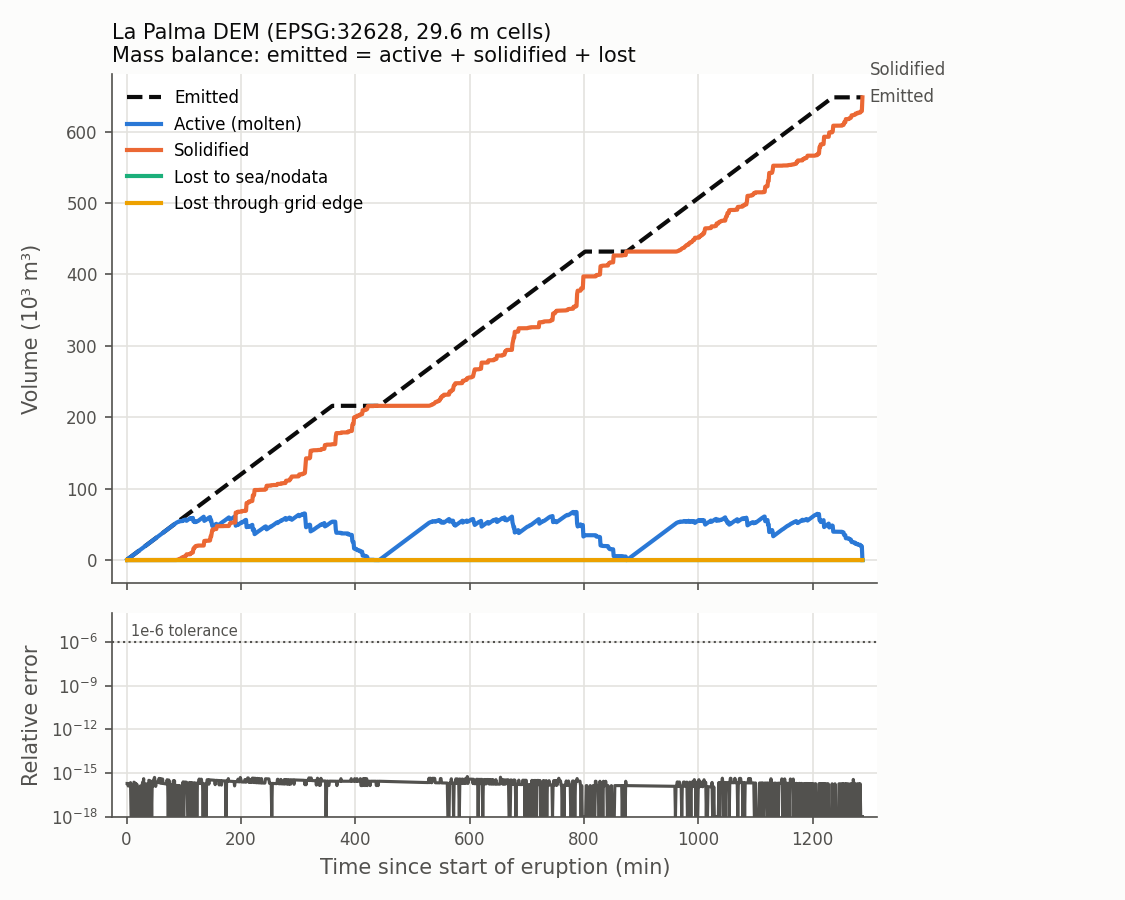
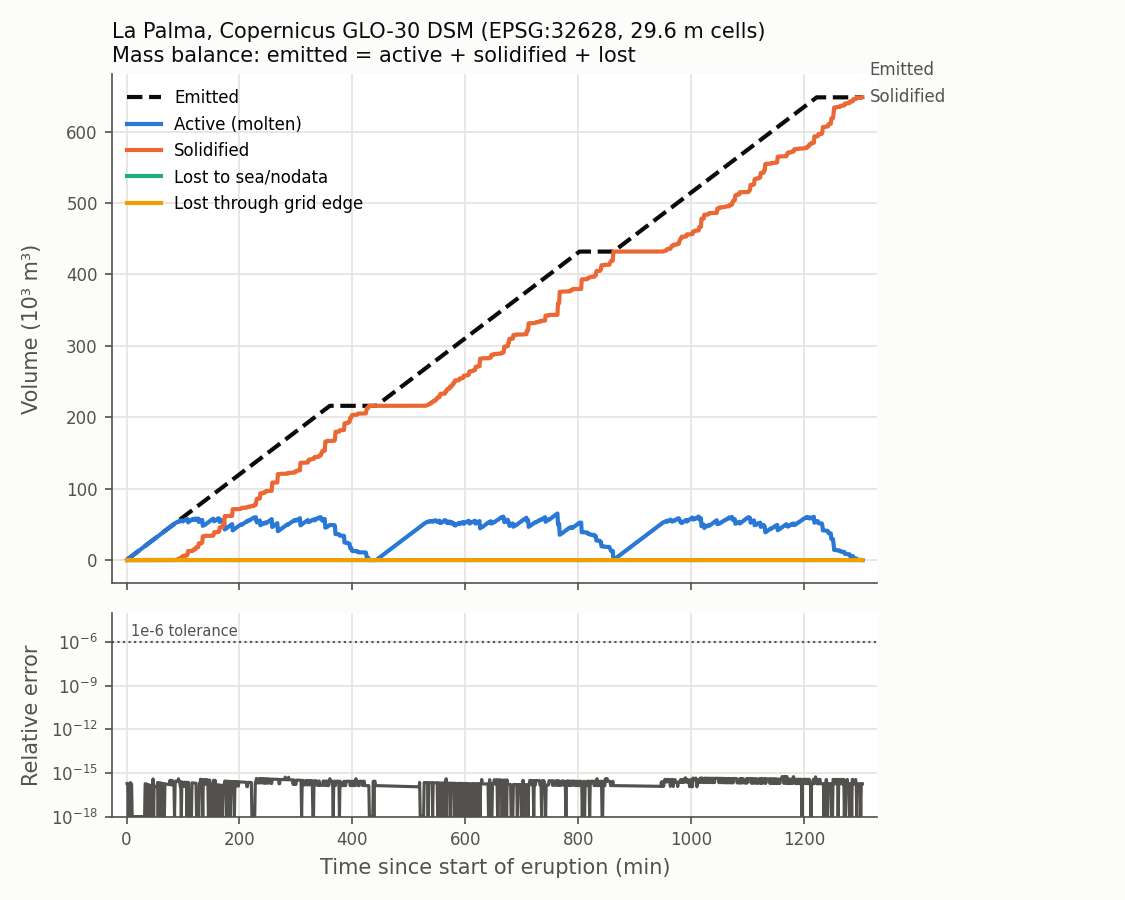
README: document the Copernicus DEM and update example results
Complete "Input data": product, DSM caveat (includes vegetation and
buildings), TanDEM-X acquisitions 2011-2015 (pre-eruption), native
resolution and CRS, licence, official attribution and access date.
Document the legacy DEM and remove all placeholders.

Re-run the real-mode example from the Tajogaite cone with the same
parameters on the Copernicus DEM: footprint 0.196 km2, straight-line
run-out 596 m, mass-balance error <= 5.7e-16. Update docs/figures/.

diff --git a/README.md b/README.md
@@ -1,8 +1,8 @@
 # La Palma Lava Flow Simulation
 
 A simple cellular-automaton (CA) lava flow simulator, inspired by the 2021 eruption of
-Cumbre Vieja (La Palma, Canary Islands). It runs on a synthetic Gaussian hill or on a
-DEM of La Palma.
+Cumbre Vieja (La Palma, Canary Islands). It runs on a synthetic Gaussian hill or on the
+Copernicus GLO-30 surface model of La Palma.
 
 > **Status.** This is an educational/exploratory model. Its parameters are illustrative
 > and **have not been calibrated**, and its output **has not been validated** against
@@ -16,10 +16,11 @@ DEM of La Palma.
 
 ![Final lava thickness on the La Palma DEM](docs/figures/real_final_thickness.png)
 
-*Illustrative run on the La Palma DEM, with the vent at the Tajogaite cone (command
-below): molten + solidified lava thickness over a hillshade of the pre-eruption DEM,
+*Illustrative run on the Copernicus GLO-30 DSM of La Palma, with the vent at the
+Tajogaite cone (command below): molten + solidified lava thickness over a hillshade of
+the pre-eruption surface,
 after three 6-hour pulses at 600 m³/min. Uncalibrated parameters. Footprint
-0.242 km², straight-line run-out 570 m.*
+0.196 km², straight-line run-out 596 m.*
 
 ## What the model does
 
@@ -56,39 +57,63 @@ tracked every step. The tests require it to close with relative error < 1e-6. In
 practice the error is ~1e-16 (float64 round-off).
 
 Only the cells near the lava are processed: the bounding box of cells with lava, plus
-a one-cell margin. The example run on the 1684 × 1076 La Palma grid (1287 simulated
-minutes) takes about 20 s, including reprojection, figures and GIF.
+a one-cell margin. The example run on the 1693 × 1106 La Palma grid (1303 simulated
+minutes) takes about 35 s, including reprojection, figures and GIF.
 
 ### Input data
 
-**DEM (`data/DEM_LaPalma.tif`).** This is **pre-eruption topography**: it shows the
-terrain before the 2021 lava flows were emplaced, and the model never updates it with
-the real 2021 deposits.
+**Default DEM: Copernicus DEM GLO-30 (`data/DEM_LaPalma_COP30.tif`).**
 
-- Source: **[TO BE COMPLETED: source / producer]**
-- Original resolution: **[TO BE COMPLETED]**
-- Acquisition / reference date: **[TO BE COMPLETED]**
-- File as distributed here: GeoTIFF, `int16` elevations in metres, EPSG:3857, pixels
-  of 30.92 × 35.19 m in map units, nodata = −32768, sea at 0 m.
+- **Product:** Copernicus DEM GLO-30 Public (2021 release, as distributed on AWS
+  Open Data). The file is a mosaic of tiles `Copernicus_DSM_COG_10_N28_00_W018_00_DEM`
+  and `Copernicus_DSM_COG_10_N28_00_W019_00_DEM`, cropped to La Palma with a
+  ~2 km (0.02°) sea margin. The western tile is needed because the island reaches
+  ~18.007° W. Ocean areas are 0 m.
+- **It is a DSM, not a bare-earth DTM:** it represents the surface "including
+  buildings, infrastructure and vegetation". On La Palma this includes, for example,
+  trees, plantations, greenhouses and buildings.
+- **Pre-eruption:** the data were acquired by the TanDEM-X mission between 2011 and
+  2015 (gaps filled with older elevation models), before the 2021 eruption. It does not
+  contain the 2021 lava flows, and the model never adds them.
+- **Native resolution and CRS:** 1 arc-second (~27 m E–W × ~31 m N–S at 28.6° N),
+  geographic WGS 84 (EPSG:4326), float32 elevations in metres.
+- **Source:** `s3://copernicus-dem-30m` (<https://registry.opendata.aws/copernicus-dem/>),
+  accessed 2026-11-17. To rebuild the file, run `python scripts/download_dem.py`; see
+  [`data/README.md`](data/README.md).
+- **Licence:** GLO-30 Public is "available on a free basis for the general public
+  under the terms and conditions of the Licence" (AWS registry). That licence is the
+  ESA user licence for Copernicus DEM / Copernicus Contributing Missions data, linked
+  from the [COP-DEM collection page](https://dataspace.copernicus.eu/explore-data/data-collections/copernicus-contributing-missions/collections-description/COP-DEM).
+- **Attribution.** The bucket readme only links to the licence, so this text comes from
+  the "User Obligations" of the COP-DEM page above, in the form for adapted or modified
+  data:
+
+  > produced using Copernicus WorldDEM-30 © DLR e.V. 2010-2014 and © Airbus Defence
+  > and Space GmbH 2014-2018 provided under COPERNICUS by the European Union and ESA;
+  > all rights reserved
+
+**Legacy DEM (`data/DEM_LaPalma.tif`, `--dem-source legacy`).** Source not recorded;
+likely a 1-arcsec global DEM reprojected to EPSG:3857. Stored as `int16` metres,
+EPSG:3857, with pixels of 30.92 × 35.19 m in map units, nodata = −32768 and sea at 0 m.
+It was the default in earlier versions and is kept only for comparison.
 
 ### Georeferencing
 
-- `data/DEM_LaPalma.tif` is in Web Mercator (EPSG:3857), with ~31 × 35 m pixels in
-  map units. Web Mercator distances are not ground distances (they are scaled by
-  ~1/cos(latitude)). The DEM is therefore reprojected with `rasterio.warp` (bilinear)
-  to **UTM zone 28N (EPSG:32628)**. The cell size (29.6 m with GDAL's default
-  resolution) is read from the transform. `--cell-size` overrides it, with a
-  warning. `--resolution` sets the target resolution.
+- Both DEMs are reprojected with `rasterio.warp` (bilinear) to **UTM zone 28N
+  (EPSG:32628)**. Neither native grid has square metric cells: Copernicus is in degrees,
+  and the legacy DEM is in Web Mercator, whose distances are scaled by ~1/cos(latitude).
+  The cell size (29.6 m with GDAL's default resolution) is read from the transform.
+  `--cell-size` overrides it, with a warning. `--resolution` sets the target resolution.
 - The vent is read from a layer of `data/Emission_Pt.gpkg` and reprojected to the
   DEM's CRS. The script stops with an error if the vent falls outside the DEM, on
   nodata, or on the sea.
 - **Default vent: the Tajogaite cone.** The default layer is `2836460n_1751580w`
   (28°36'46"N 17°51'58"W), the Tajogaite cone of the 2021 eruption: pixel
-  (1036, 475) of the reprojected DEM, at 950 m.
+  (1006, 548) of the reprojected Copernicus DEM, at 943 m.
 - **Why the default changed.** Earlier versions used layer `emision_pto` (28.6253 N,
-  17.8403 W). That point lies 2.9 km ENE of the Tajogaite cone and 316 m higher
-  (1266 m in the reprojected DEM), on terrain that drains to the north, so it does not
-  represent the 2021 vent. It is still available with
+  17.8403 W). That point lies 2.9 km ENE of the Tajogaite cone and ~320 m higher
+  (1264 m in the reprojected Copernicus DEM), on terrain that drains to the north, so it
+  does not represent the 2021 vent. It is still available with
   `--emission-layer emision_pto`.
 
 ## Quick start
@@ -96,7 +121,7 @@ the real 2021 deposits.
 ```bash
 python -m venv .venv && source .venv/bin/activate
 pip install -r requirements.txt
-python -m pytest            # 19 tests
+python -m pytest            # 30 tests
 ```
 
 Synthetic Gaussian hill (100 × 100 cells, 10 m, vent at the summit, default
@@ -106,7 +131,8 @@ parameters):
 python src/lava_flow_simulation_palma.py --mode gaussian
 ```
 
-La Palma DEM, with the vent at the Tajogaite cone. This is the command used for the
+La Palma (Copernicus GLO-30 DSM by default; add `--dem-source legacy` for the old
+DEM), with the vent at the Tajogaite cone. This is the command used for the
 figures in `docs/figures/`: three 6-hour pulses at 600 m³/min (10 m³/s), each
 followed by up to 4 h without emission. This illustrative scenario totals
 648,000 m³, a tiny fraction of the volume erupted in 2021:
@@ -169,10 +195,11 @@ vent. That choice is not an estimate of the real cooling rate.
 - **Grid and time-step dependence.** The CA rule is not derived from a discretised
   flow equation. The front advances at most one cell per minute, and results depend
   on cell size and `flow_coef`. No convergence study has been done.
-- **Topography.** The DEM is pre-eruption topography (see
-  [Input data](#input-data)), resampled at least once: its ~31 × 35 m Web Mercator
-  grid was bilinearly reprojected to ~30 m UTM cells. Treating sea and nodata cells as
-  sinks ignores lava deltas and offshore emplacement.
+- **Topography.** The default DEM is a pre-eruption **surface** model (DSM, 2011–2015
+  acquisitions; see [Input data](#input-data)). Vegetation, greenhouses and buildings
+  appear as relief that real lava would bury or destroy. The 1-arcsec grid was
+  bilinearly reprojected to ~30 m UTM cells. Treating sea and nodata cells as sinks
+  ignores lava deltas and offshore emplacement.
 - **Vent and scenario.** A single point vent at the Tajogaite cone and a constant
   rate per pulse, over about a day. The 2021 eruption had several vents, and its
   effusion rate changed over the ~85 days of activity. The runs are illustrative
@@ -181,11 +208,12 @@ vent. That choice is not an estimate of the real cooling rate.
 ## Repository layout
 
 - `src/lava_flow_simulation_palma.py`: model, I/O and command-line interface.
-- `tests/`: pytest suite covering georeferencing, propagation, mass conservation,
-  symmetry, heat advection, mobility and a CLI smoke test.
-- `data/`: input DEMs (`DEM_LaPalma.tif`, plus `DEM_gaussian.tif`, which the
-  script doesn't use) and the emission points (`Emission_Pt.gpkg`, two layers). The
-  Landsat 8 image and `output.png` belong to the legacy notebook.
+- `scripts/download_dem.py`: rebuilds `data/DEM_LaPalma_COP30.tif` from the Copernicus
+  GLO-30 tiles.
+- `tests/`: pytest suite covering georeferencing on both DEMs, propagation, mass
+  conservation, symmetry, heat advection, mobility and a CLI smoke test.
+- `data/`: input DEMs and emission points; see [`data/README.md`](data/README.md).
+  The Landsat 8 image and `output.png` belong to the legacy notebook.
 - `docs/figures/`: example figures generated with the commands above.
 - `notebooks/legacy/lava_flow_simulation_palma.ipynb`: the **original exploratory
   prototype**, kept for reference. It is self-contained (it also uses `scipy`),
